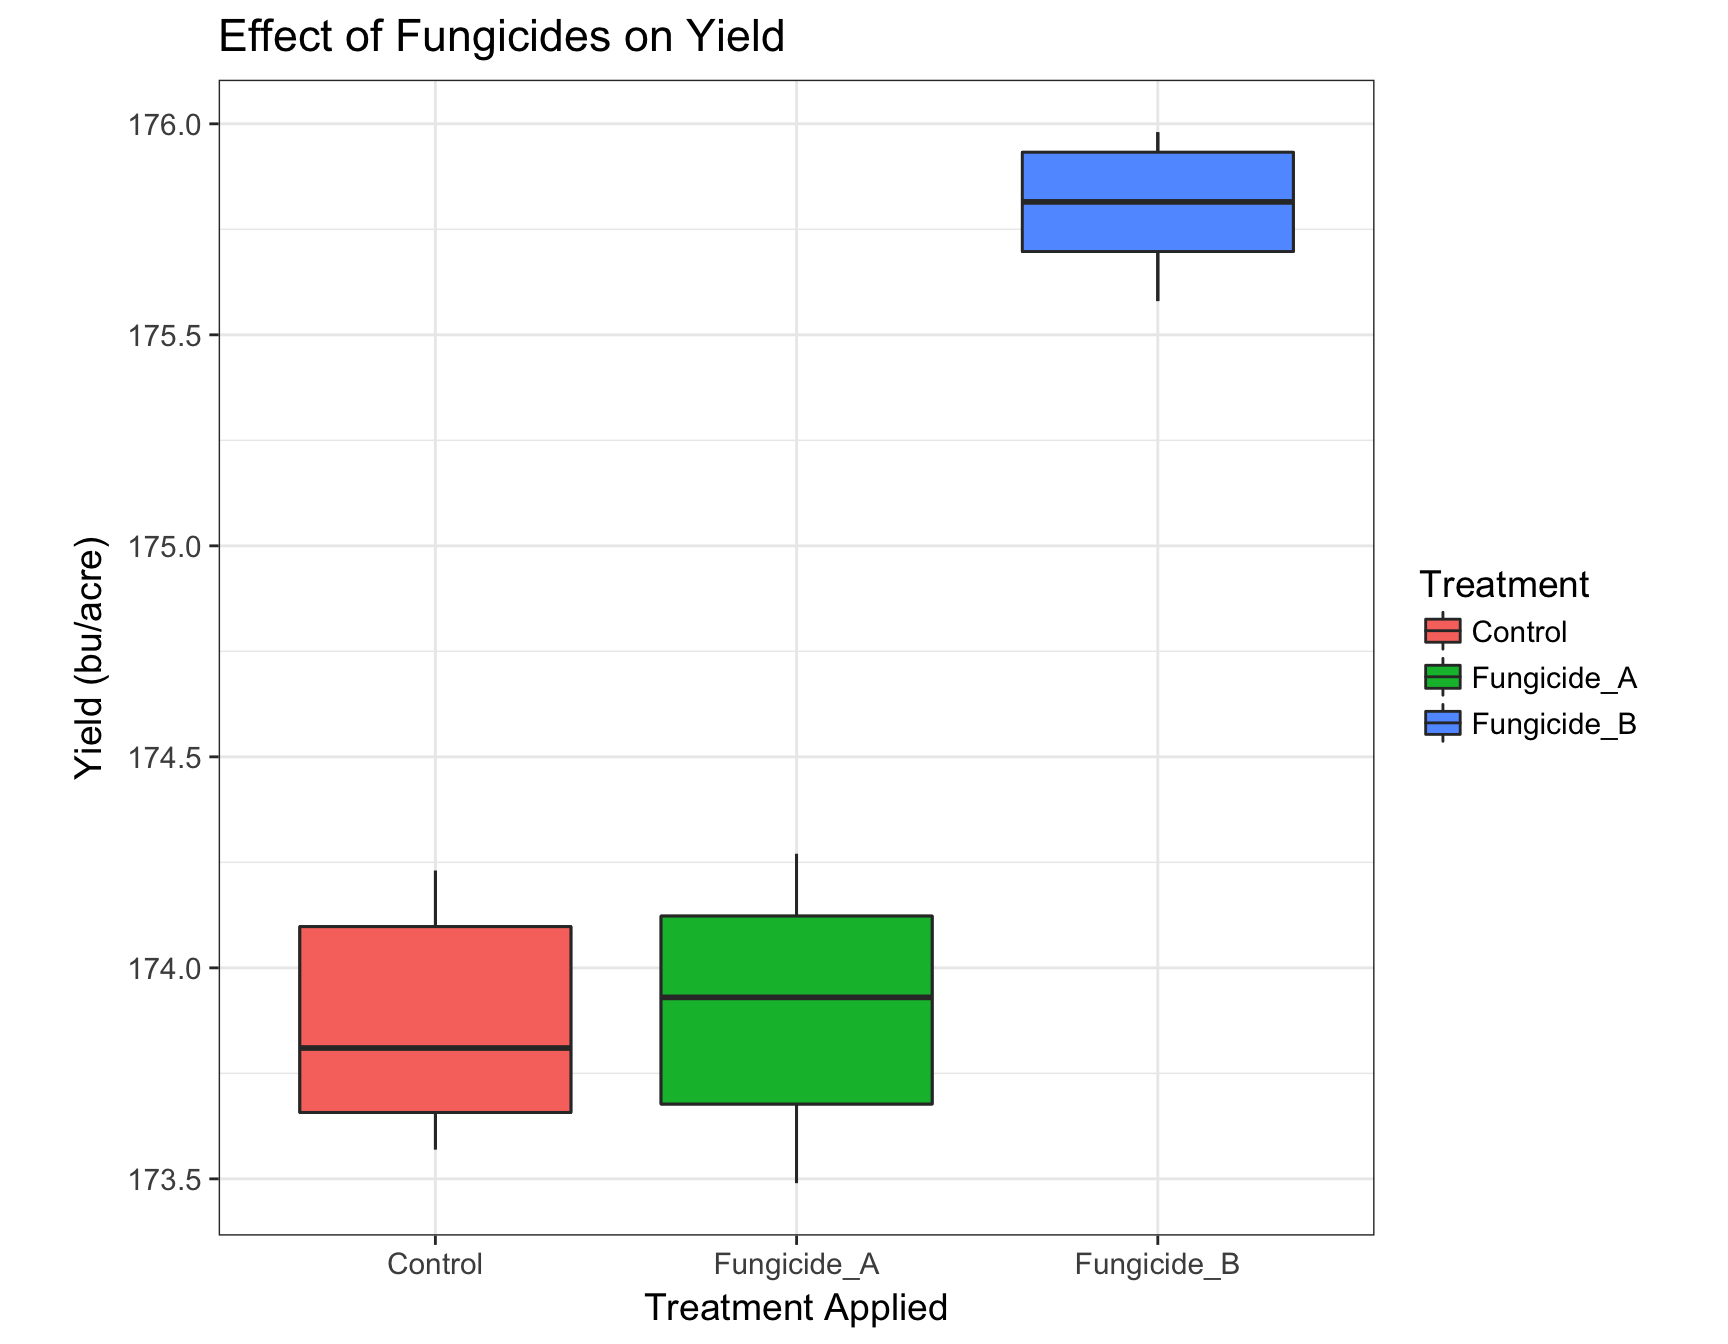
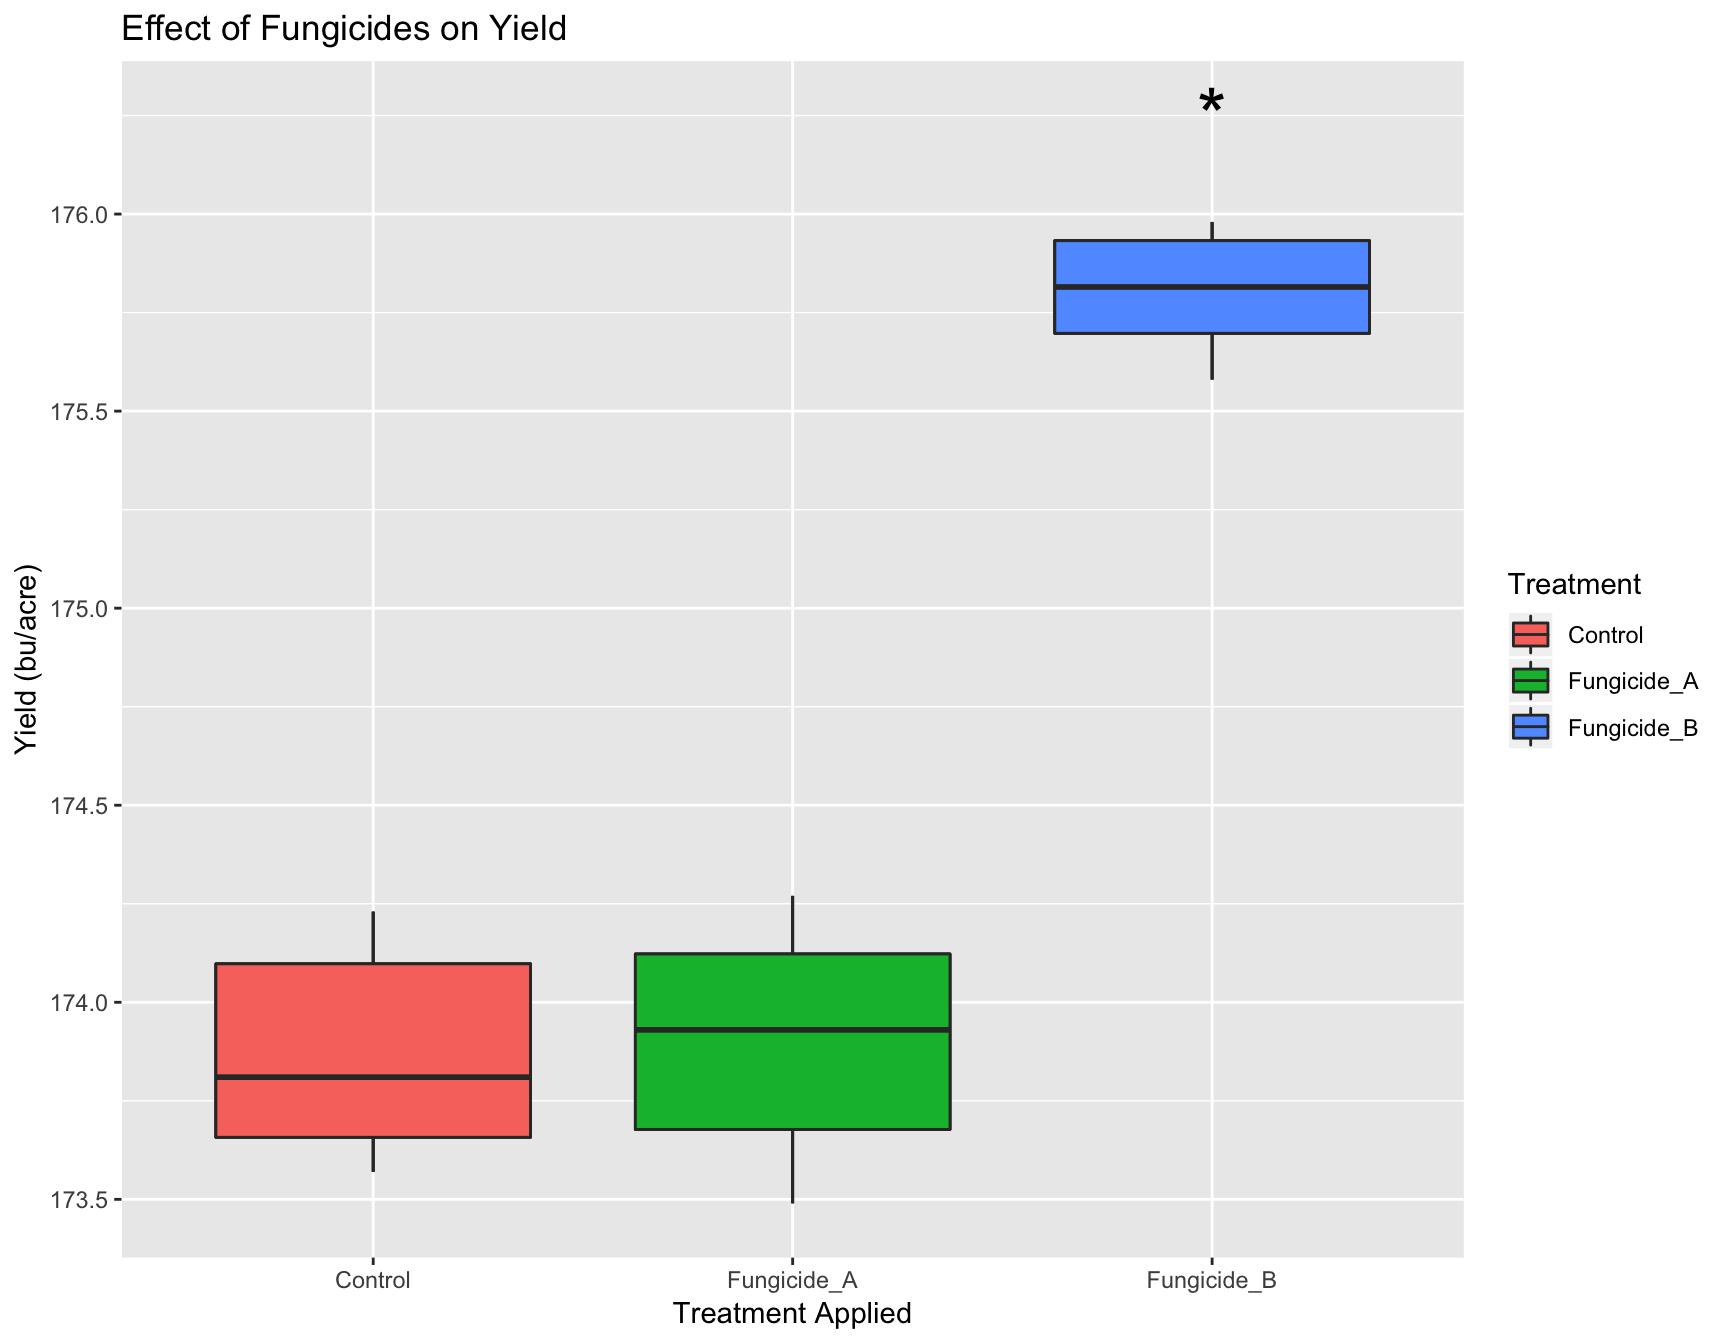
update

diff --git a/docs/Part3-Visualization.html b/docs/Part3-Visualization.html
@@ -441,36 +441,28 @@ we can do this by adding <code>geom_boxplot(fill = &quot;orange&quot;)</code>.</
 <div id="annotating-with-tukeys-hsd-letters" class="section level3">
 <h3>Annotating with Tukey’s HSD letters</h3>
 <p>Remember that ‘Fungicide_B’ is signfificantly different from both ‘Fungicide_A’ and ‘Control’. ‘Fungicide_A’ and ‘Control’ are not signficantly different from each other. If we want to include stars or letters indicating significant differences we can use ‘annotate()’.</p>
-<pre class="r"><code>&gt; #
-&gt; TukeyHSD(fit_yield)</code></pre>
-<pre><code>Error in TukeyHSD(fit_yield): object &#39;fit_yield&#39; not found</code></pre>
-<pre class="r"><code>&gt; #
-&gt; #</code></pre>
+<pre class="r"><code>&gt; #</code></pre>
 <p>With Letters</p>
 <pre class="r"><code>&gt; yield.plot + annotate(&quot;text&quot;, x=&quot;Control&quot;, y= 174.5, label=&quot;A&quot;, size=5) +
 +              annotate(&quot;text&quot;, x=&quot;Fungicide_A&quot;, y= 174.5, label=&quot;A&quot;, size=5)+
 +              annotate(&quot;text&quot;, x=&quot;Fungicide_B&quot;, y= 176.25, label=&quot;B&quot;, size=5)</code></pre>
 <p><img src="Part3-Visualization_files/figure-html/unnamed-chunk-15-1.png" width="100%" style="display: block; margin: auto;" /></p>
-<pre class="r"><code>&gt; #</code></pre>
 <p>With stars</p>
 <pre class="r"><code>&gt; (yield.plot &lt;- yield.plot + annotate(&quot;text&quot;, x=&quot;Fungicide_B&quot;, y= 176.25, label=&quot;*&quot;, size=10))</code></pre>
-<p><img src="Part3-Visualization_files/figure-html/unnamed-chunk-17-1.png" width="100%" style="display: block; margin: auto;" /></p>
+<p><img src="Part3-Visualization_files/figure-html/unnamed-chunk-16-1.png" width="100%" style="display: block; margin: auto;" /></p>
 <pre class="r"><code>&gt; #</code></pre>
 <p>If we want to include a caption explaining what our annotations mean we can use ‘labs()’. We can also use this function to add subtitles, titles, or x and y labels.</p>
-<pre class="r"><code>&gt; #
-&gt; (yield.plot &lt;- yield.plot + annotate(&quot;text&quot;, x=&quot;Fungicide_B&quot;, y= 176.25, label=&quot;*&quot;, size=10) +
+<pre class="r"><code>&gt; (yield.plot &lt;- yield.plot + annotate(&quot;text&quot;, x=&quot;Fungicide_B&quot;, y= 176.25, label=&quot;*&quot;, size=10) +
 +                             labs(caption=&quot;* indicates significant difference by Tukey&#39;s HSD &lt;0.01&quot;))</code></pre>
-<p><img src="Part3-Visualization_files/figure-html/unnamed-chunk-18-1.png" width="100%" style="display: block; margin: auto;" /></p>
-<pre class="r"><code>&gt; #</code></pre>
+<p><img src="Part3-Visualization_files/figure-html/unnamed-chunk-17-1.png" width="100%" style="display: block; margin: auto;" /></p>
 </div>
 <div id="adjusting-look-and-feel-theme" class="section level3">
 <h3>Adjusting Look and Feel (theme)</h3>
 <p>The first thing we can do is change the default theme from <code>theme_grey()</code> to <code>theme_bw()</code>. We will simultaneously set the base size of the font to be 14pt.</p>
 <pre class="r"><code>&gt; (yield.plot &lt;- yield.plot + theme_bw(base_size = 14))</code></pre>
-<p><img src="Part3-Visualization_files/figure-html/unnamed-chunk-19-1.png" width="100%" style="display: block; margin: auto;" /></p>
+<p><img src="Part3-Visualization_files/figure-html/unnamed-chunk-18-1.png" width="100%" style="display: block; margin: auto;" /></p>
 <p>There are many different default themes available for ggplot2 objects that change many aspects of the look and feel. The <em>ggthemes</em> contains many popular themes such as fivethirtyeight and economist. Of course, we can make it prettier before including it in our final manuscript.</p>
 <p>To adjust granular aspects of the theme, we can use the <code>theme()</code> function, which contains a whopping 71 different options all related to the layout of the non-data aspects of the plot.</p>
-<pre class="r"><code>&gt; ?theme</code></pre>
 <pre class="r"><code>&gt; stop(&quot;
 +      Look at ?theme and figure out one of the following:
 +      1. change the aspect ratio of the panels
@@ -483,16 +475,16 @@ we can do this by adding <code>geom_boxplot(fill = &quot;orange&quot;)</code>.</
      </code></pre>
 <p>When we inspect the help page of the <code>theme()</code> function, we can find out how to adjust several parameters to make out plot look acceptable:</p>
 <pre class="r"><code>&gt; (yield.plot &lt;- yield.plot + theme(aspect.ratio = 1)) # This looks the same</code></pre>
-<p><img src="Part3-Visualization_files/figure-html/unnamed-chunk-22-1.png" width="100%" style="display: block; margin: auto;" /></p>
+<p><img src="Part3-Visualization_files/figure-html/unnamed-chunk-20-1.png" width="100%" style="display: block; margin: auto;" /></p>
 <pre class="r"><code>&gt; (yield.plot &lt;- yield.plot + theme(aspect.ratio = 2)) # This is too skinny</code></pre>
-<p><img src="Part3-Visualization_files/figure-html/unnamed-chunk-22-2.png" width="100%" style="display: block; margin: auto;" /></p>
+<p><img src="Part3-Visualization_files/figure-html/unnamed-chunk-20-2.png" width="100%" style="display: block; margin: auto;" /></p>
 <pre class="r"><code>&gt; (yield.plot &lt;- yield.plot + theme(aspect.ratio = 1.25)) # I think this is perfect!</code></pre>
-<p><img src="Part3-Visualization_files/figure-html/unnamed-chunk-22-3.png" width="100%" style="display: block; margin: auto;" /></p>
+<p><img src="Part3-Visualization_files/figure-html/unnamed-chunk-20-3.png" width="100%" style="display: block; margin: auto;" /></p>
 <pre class="r"><code>&gt; (yield.plot &lt;- yield.plot + theme(panel.grid = element_blank()))</code></pre>
-<p><img src="Part3-Visualization_files/figure-html/unnamed-chunk-22-4.png" width="100%" style="display: block; margin: auto;" /></p>
+<p><img src="Part3-Visualization_files/figure-html/unnamed-chunk-20-4.png" width="100%" style="display: block; margin: auto;" /></p>
 <p>Since the information in the legend is repetitive, we can remove it. If you ‘Google’ how to remove the legend in ggplot2, you will find that you can use <code>guides(fill=FALSE)</code>.</p>
 <pre class="r"><code>&gt; (yield.plot &lt;- yield.plot + guides(fill=FALSE))</code></pre>
-<p><img src="Part3-Visualization_files/figure-html/unnamed-chunk-23-1.png" width="100%" style="display: block; margin: auto;" /></p>
+<p><img src="Part3-Visualization_files/figure-html/unnamed-chunk-21-1.png" width="100%" style="display: block; margin: auto;" /></p>
 </div>
 <div id="putting-it-all-together" class="section level3">
 <h3>Putting it all together</h3>
@@ -509,7 +501,7 @@ we can do this by adding <code>geom_boxplot(fill = &quot;orange&quot;)</code>.</
 +   theme(panel.grid = element_blank()) +
 +   guides(fill=FALSE)
 &gt; yield.plot</code></pre>
-<p><img src="Part3-Visualization_files/figure-html/unnamed-chunk-24-1.png" width="100%" style="display: block; margin: auto;" /></p>
+<p><img src="Part3-Visualization_files/figure-html/unnamed-chunk-22-1.png" width="100%" style="display: block; margin: auto;" /></p>
 <p>We can now create a similar plot for Severity Data.</p>
 <pre class="r"><code>&gt; severity.plot &lt;- ggplot(fungicide, aes(x = Treatment, y = Severity)) +
 +   geom_boxplot() +
@@ -524,10 +516,10 @@ we can do this by adding <code>geom_boxplot(fill = &quot;orange&quot;)</code>.</
 +   annotate(&quot;text&quot;, x=&quot;Fungicide_B&quot;, y= 4.35, label=&quot;c&quot;, size=5) +
 +   labs(caption=&quot;letters indicates significant differences by Tukey&#39;s HSD &lt;0.01&quot;) 
 &gt; severity.plot</code></pre>
-<p><img src="Part3-Visualization_files/figure-html/unnamed-chunk-25-1.png" width="100%" style="display: block; margin: auto;" /></p>
+<p><img src="Part3-Visualization_files/figure-html/unnamed-chunk-23-1.png" width="100%" style="display: block; margin: auto;" /></p>
 <p>The text of the title is not in the center. To format text elements of the plot, we can use the function <code>element_text()</code> inside <code>theme()</code>. Since we need to edit the text of the plot title, we need to specify <code>plot.title = element_text()</code>. Since we need to adjust the text horizontally in the center, we modify it to <code>theme(plot.title = element_text(hjust = 0.5))</code>.</p>
 <pre class="r"><code>&gt; (severity.plot &lt;- severity.plot + theme(plot.title = element_text(hjust = 0.5), plot.caption=element_text(hjust=.5)))</code></pre>
-<p><img src="Part3-Visualization_files/figure-html/unnamed-chunk-26-1.png" width="100%" style="display: block; margin: auto;" /></p>
+<p><img src="Part3-Visualization_files/figure-html/unnamed-chunk-24-1.png" width="100%" style="display: block; margin: auto;" /></p>
 </div>
 </div>
 <div id="step-2-saving-our-plot" class="section level2">
